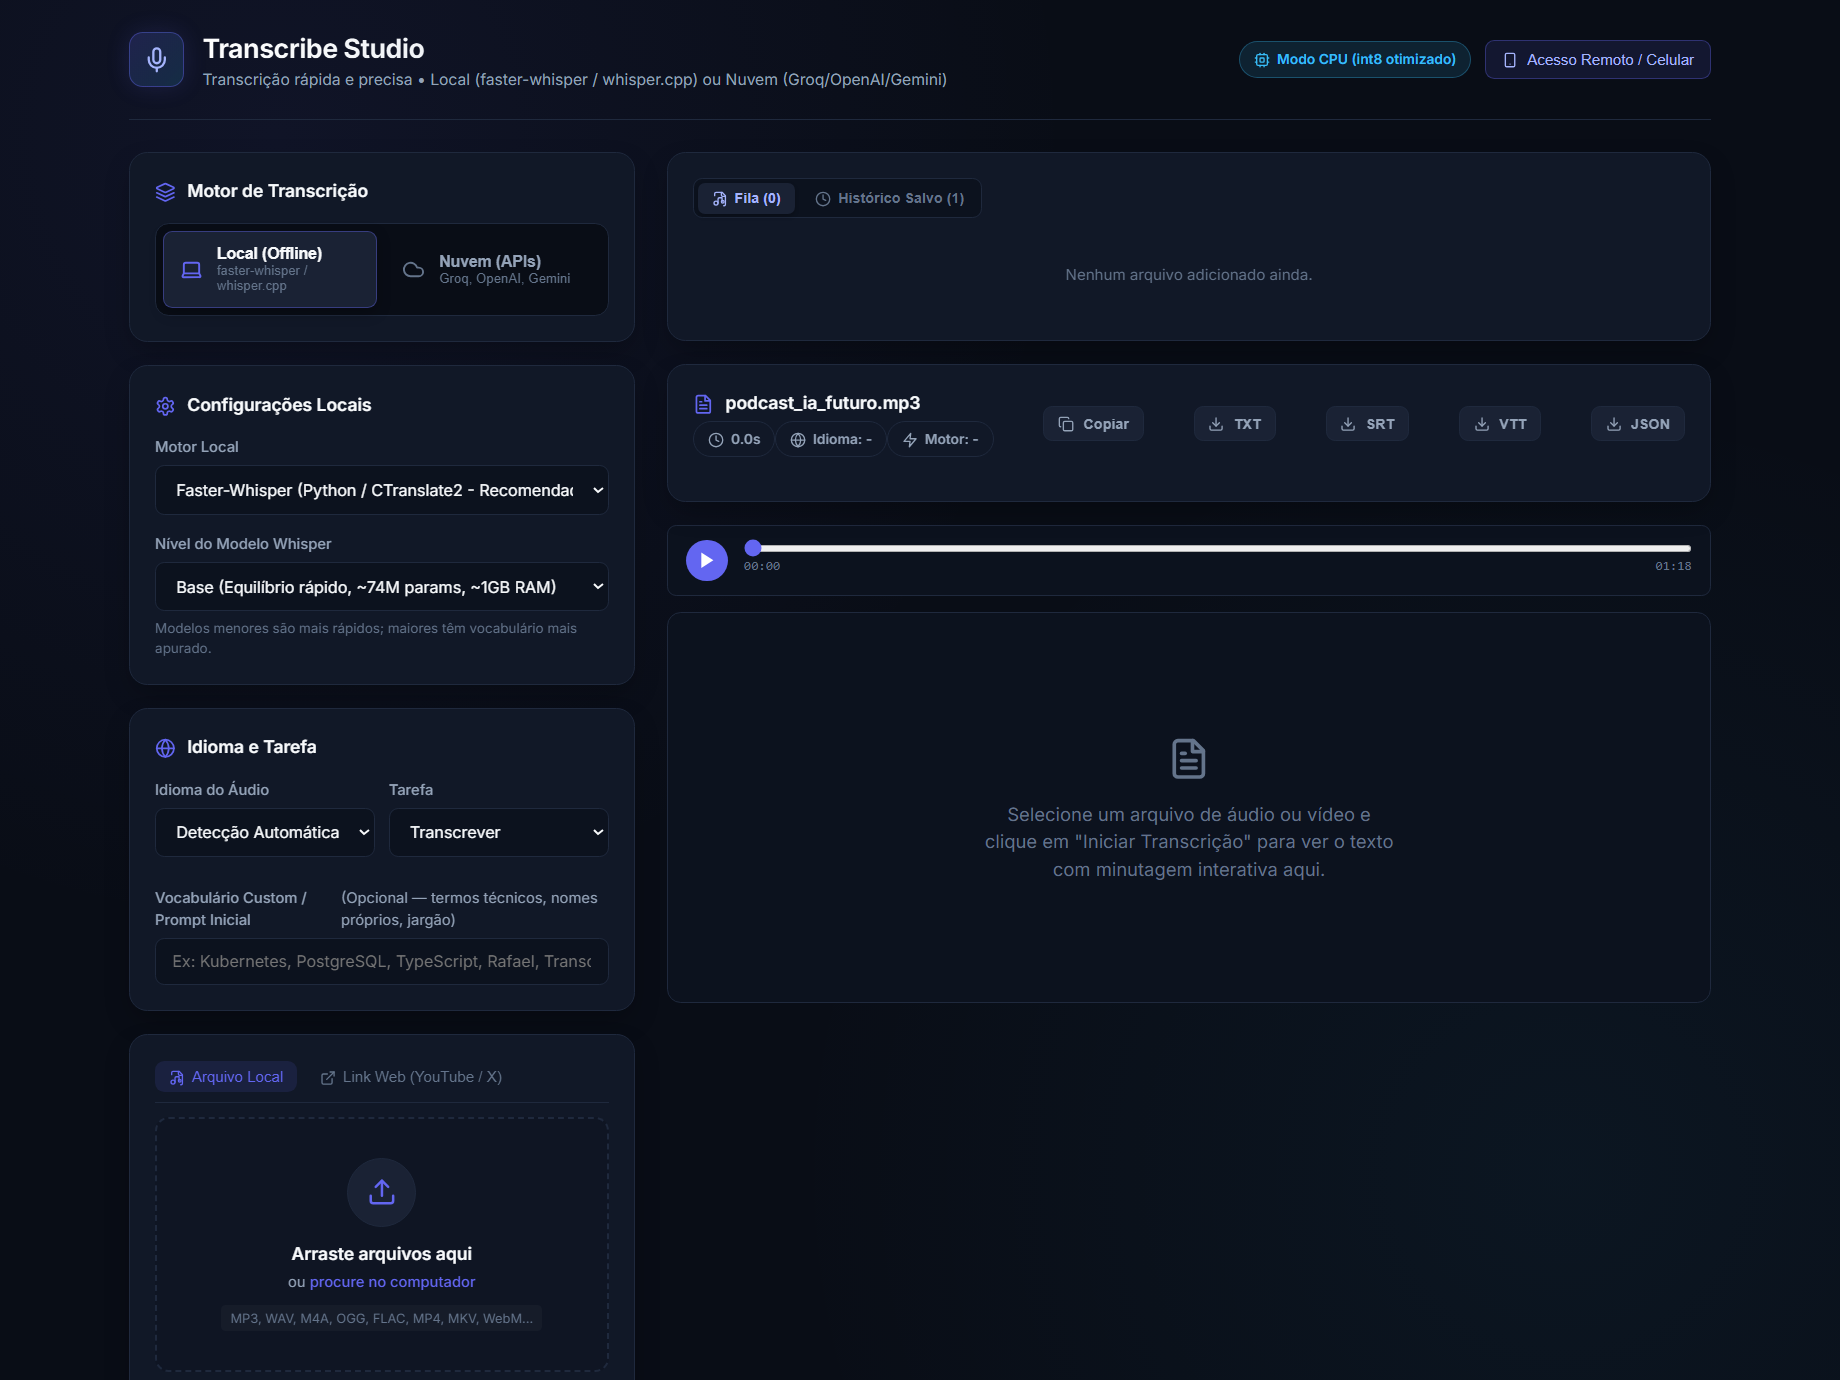
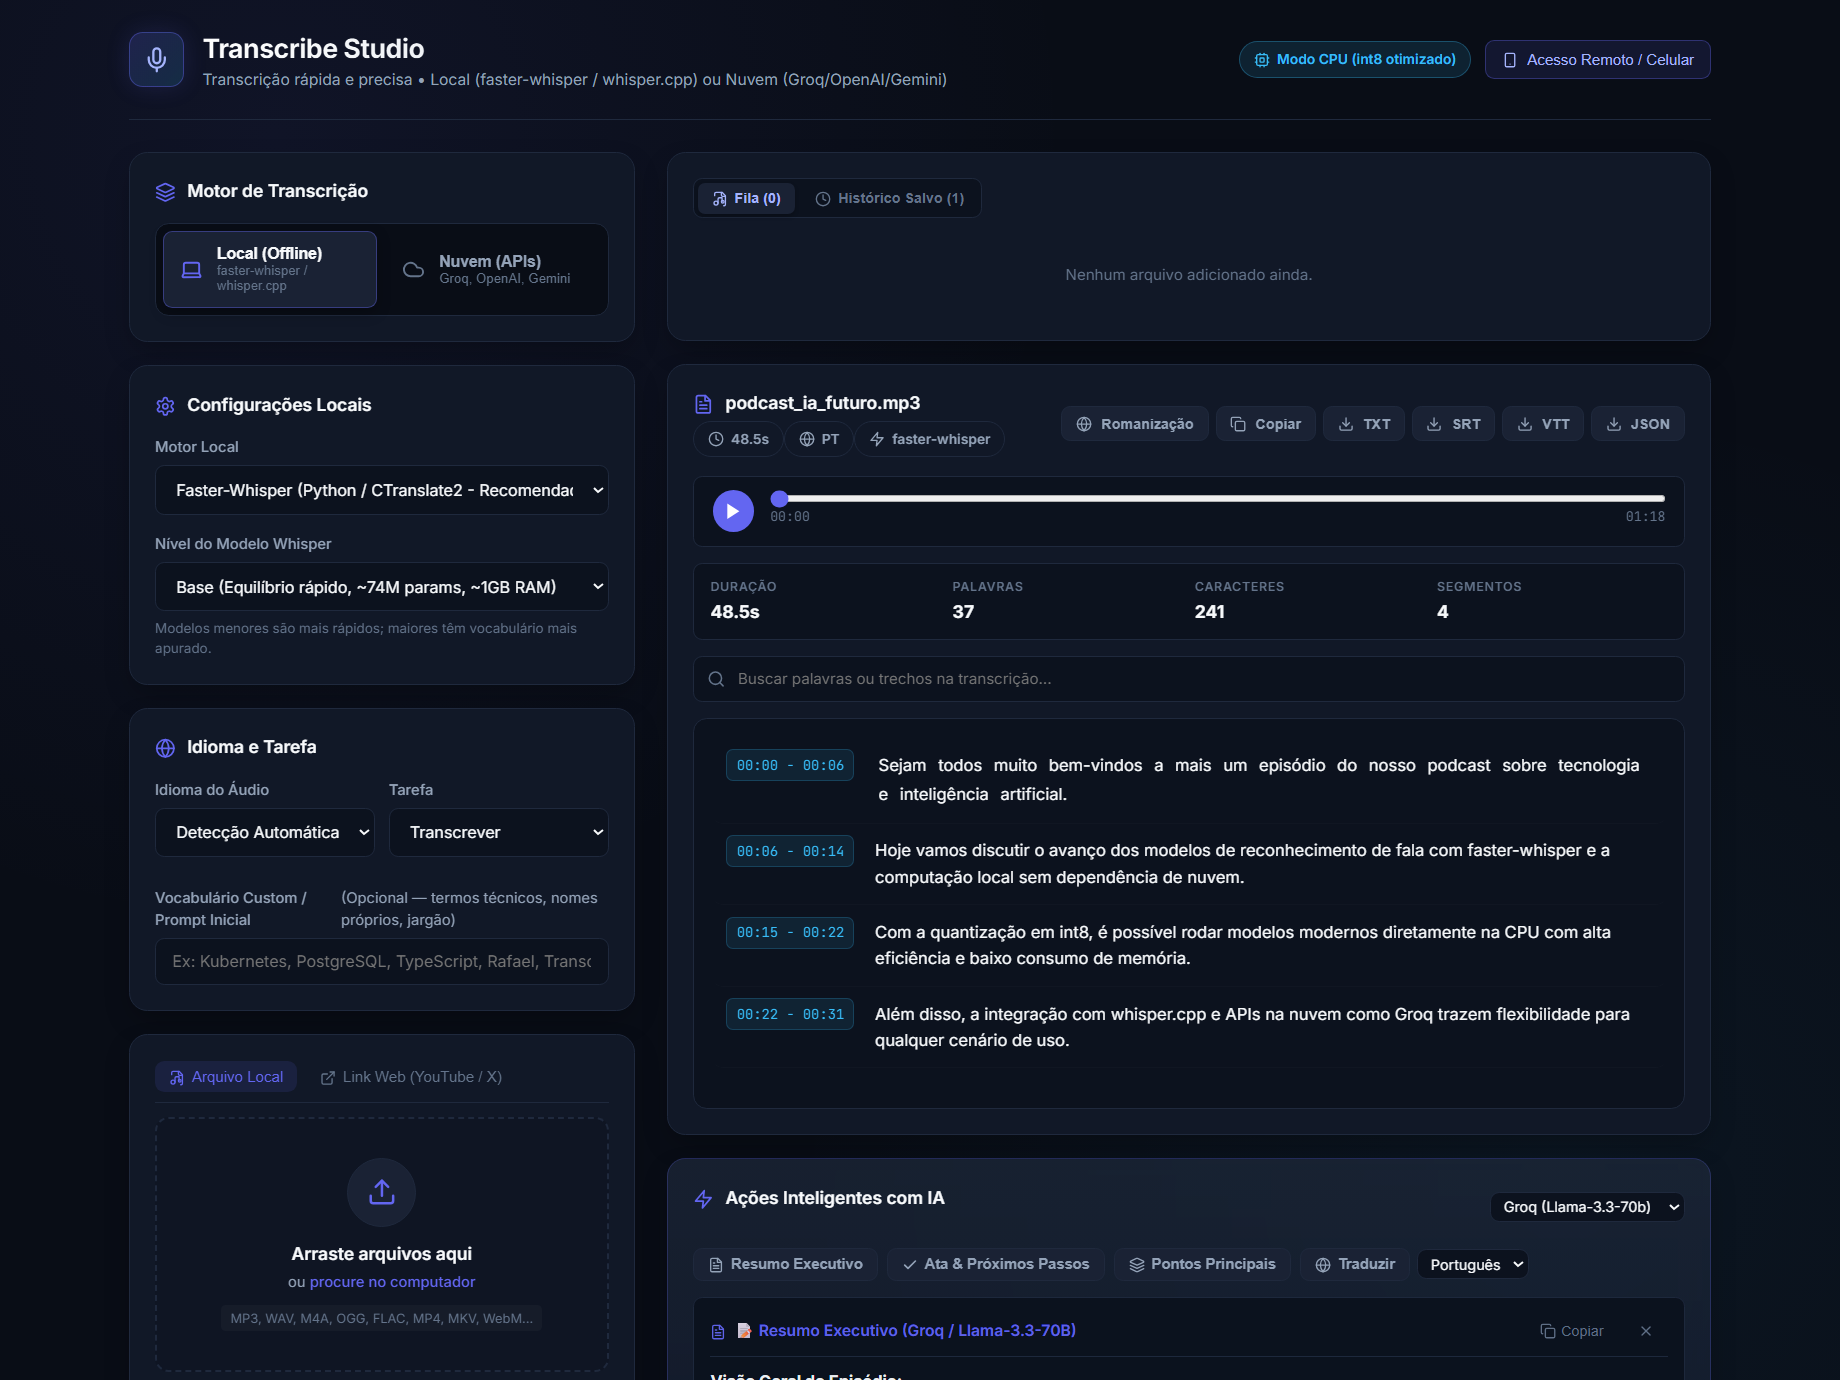
docs(media): refresh screenshots with working audio player and regenerated showcase video

diff --git a/scripts/take_screenshots.py b/scripts/take_screenshots.py
@@ -14,12 +14,29 @@ if not os.path.exists(EDGE_PATH):
     EDGE_PATH = r"C:\Program Files\Microsoft\Edge\Application\msedge.exe"
 
 def seed_demo_history():
+    import wave
+    import struct
+    import math
+
     history_dir = BASE_DIR / "exports" / "history"
     history_dir.mkdir(parents=True, exist_ok=True)
     demo_file = history_dir / "demo_transcription.json"
+    wav_file = history_dir / "demo_transcription.wav"
+
+    sample_rate = 16000
+    n_samples = int(sample_rate * 2.0)
+    with wave.open(str(wav_file), "w") as wf:
+        wf.setnchannels(1)
+        wf.setsampwidth(2)
+        wf.setframerate(sample_rate)
+        for i in range(n_samples):
+            val = int(32767.0 * 0.1 * math.sin(2.0 * math.pi * 440.0 * (i / sample_rate)))
+            wf.writeframes(struct.pack("<h", val))
+
     data = {
         "id": "demo_transcription",
         "filename": "podcast_ia_futuro.mp3",
+        "audio_file": "demo_transcription.wav",
         "saved_at": "28/09/2026 17:15",
         "timestamp": 1727554500.0,
         "duration": 48.5,
